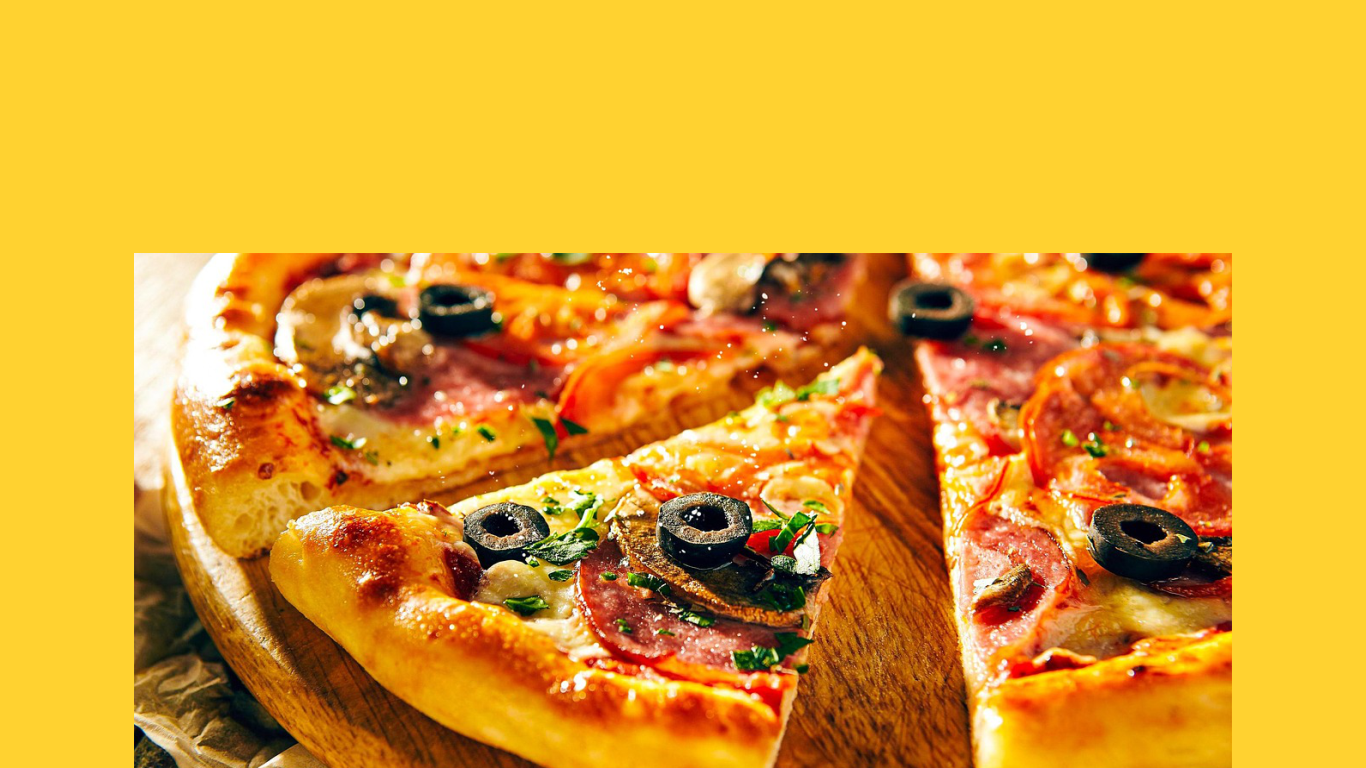
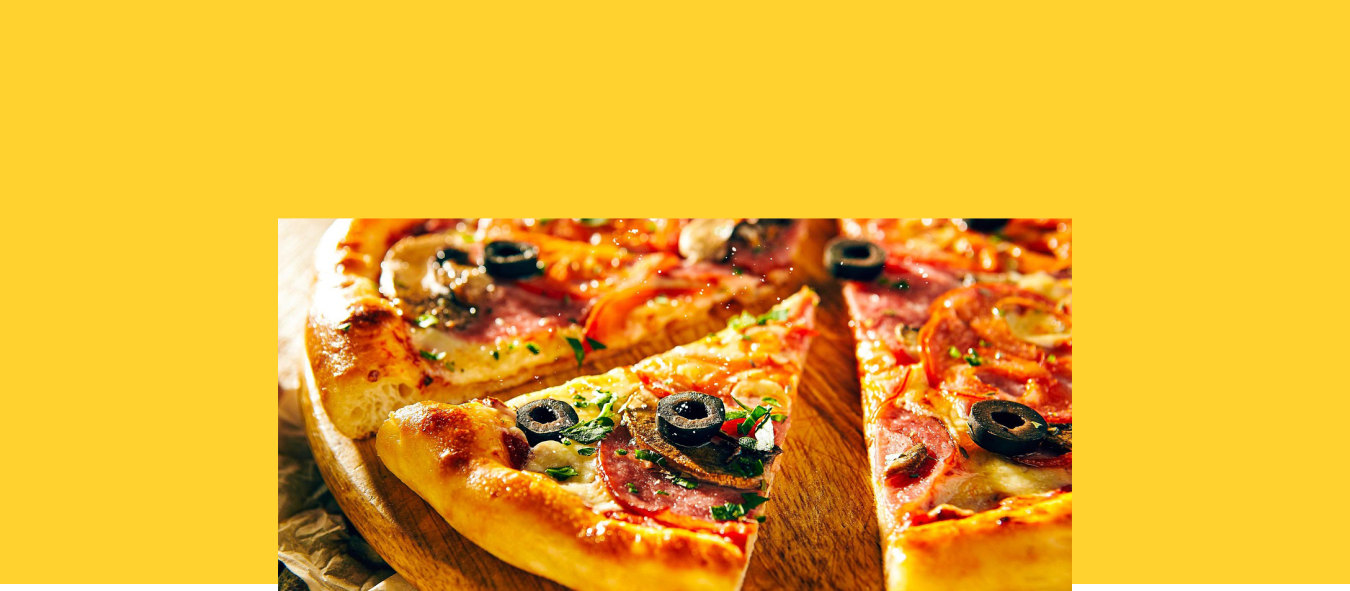
Atualizando código

diff --git a/index.html b/index.html
@@ -4,12 +4,10 @@
     <meta charset="UTF-8">
     <meta name="viewport" content="width=device-width, initial-scale=1.0">
     <title>Pizzaria</title>
-    <link rel="stylesheet" href="css/style.css">
+    <link rel="stylesheet" href="assets/css/style.css">
 </head>
 
 <body>
     <img src="assets/images/backgroundhome.png" alt="">
-    
-
 </body>
 </html>

diff --git a/assets/css/style.css b/assets/css/style.css
@@ -1,0 +1,3 @@
+body {
+    margin: 0;
+}
